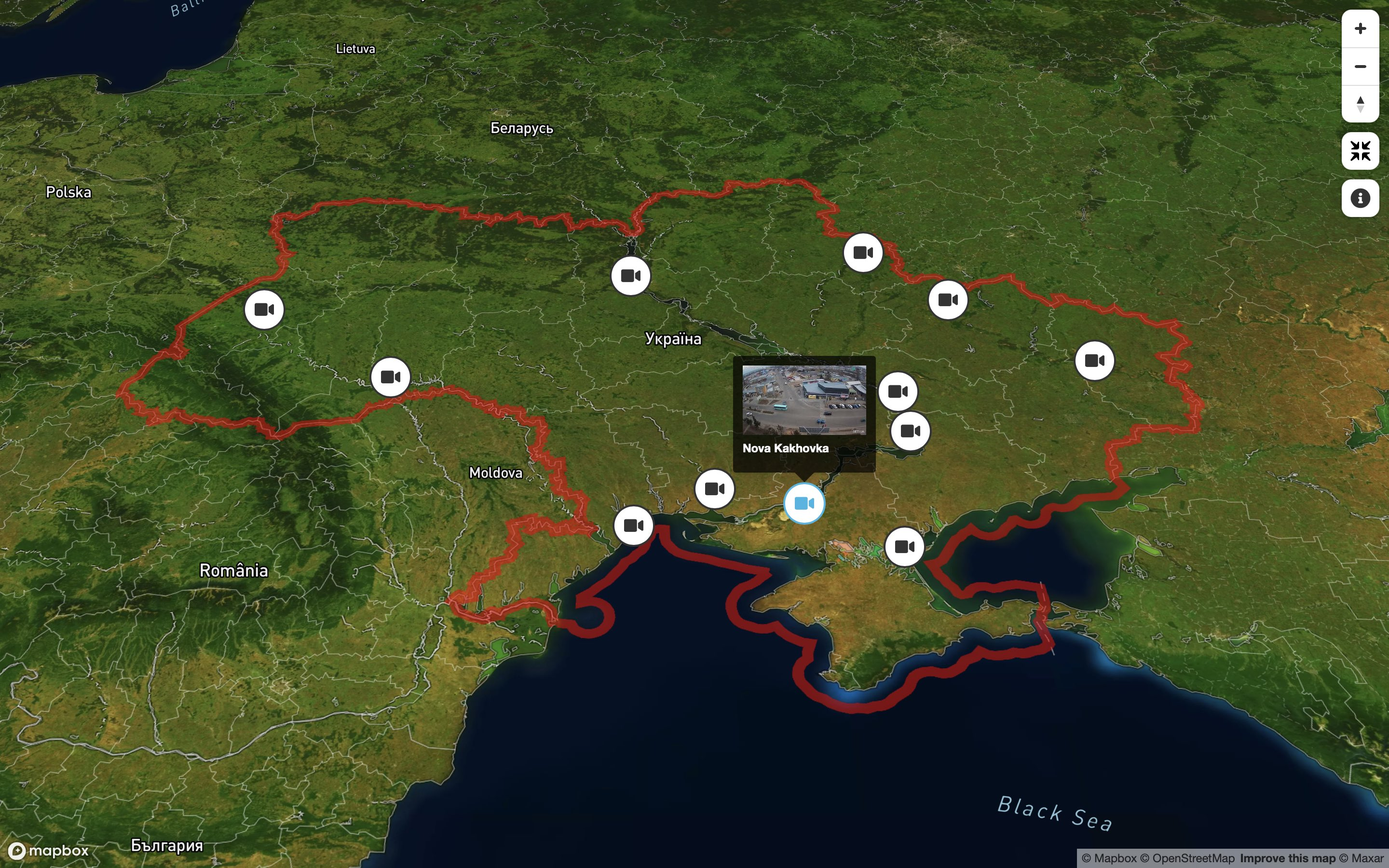
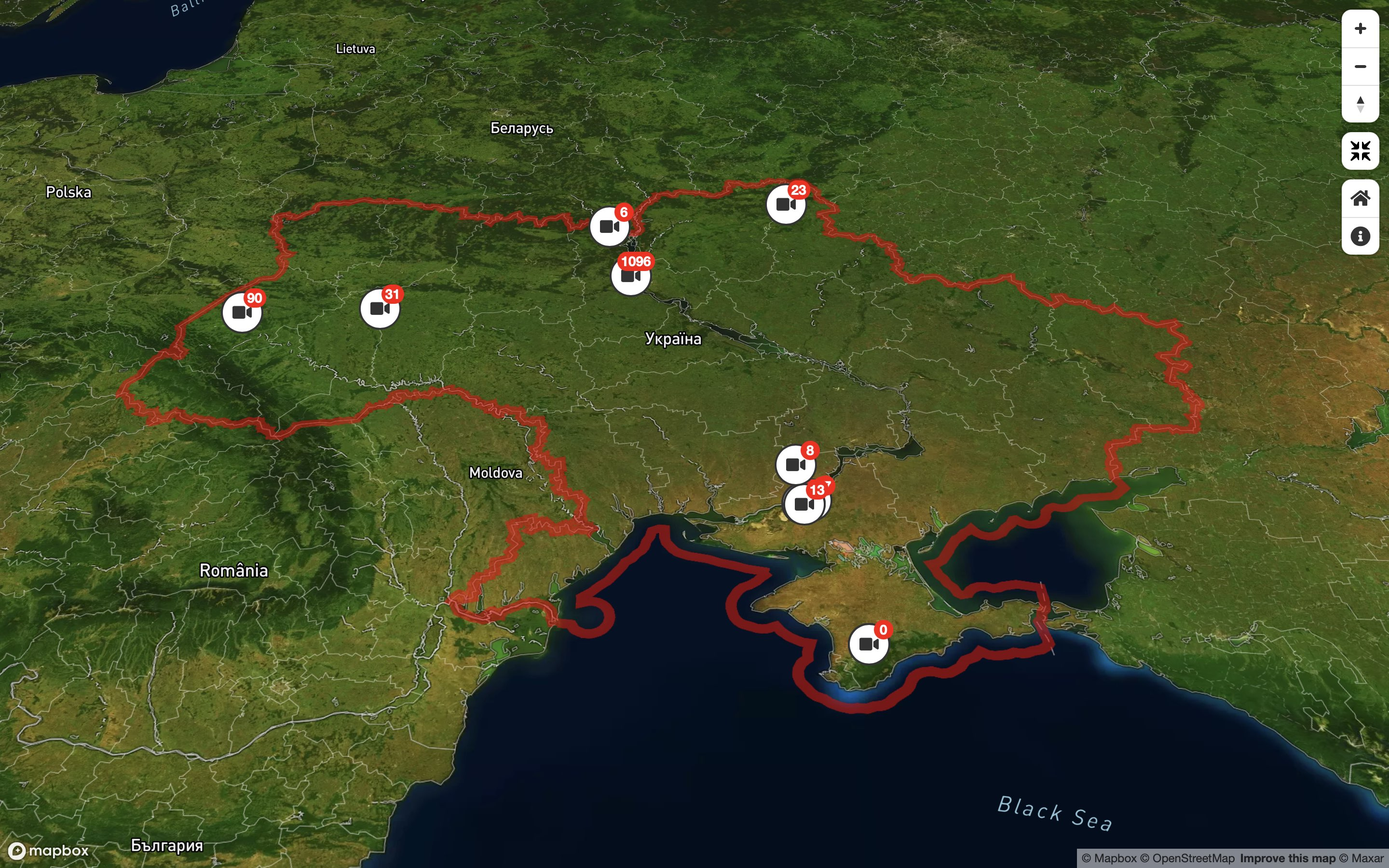
Sort markers by audience count

diff --git a/index.html b/index.html
@@ -230,7 +230,7 @@
         }
 
         function addMarkers(map) {
-            for (const id of Object.keys(cameras)) {
+            for (const id of Object.keys(cameras).sort()) {
                 const {center, zoom, bearing, pitch, name, thumbnail, count} = cameras[id],
                     element = createElement('div', {className: 'livecam-marker'});
                     badgeElement = createElement('div', {className: 'badge'});
@@ -268,8 +268,10 @@
                             '<div class="ball-pulse"><div></div><div></div><div></div></div>',
                             `<div class="thumbnail-image" style="background-image: url(\'${thumbnail}\');"></div>`,
                             '</div>',
-                            `<div><strong>${name[lang]}</strong></div>`,
-                            count !== '0' ? `<div>${count} ${dict['watching-now'][lang]}</div>` : ''
+                            '<div>',
+                            `<strong>${name[lang]}</strong>`,
+                            count > 0 ? `<br>${count} ${dict['watching-now'][lang]}` : '',
+                            '</div>'
                         ].join(''))
                         .addTo(map);
                 });
